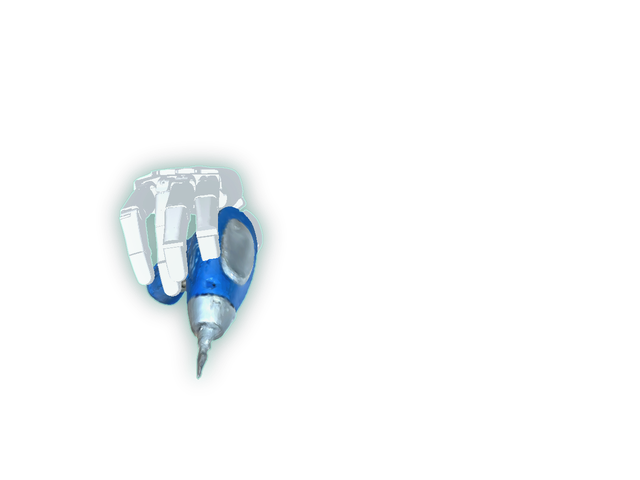
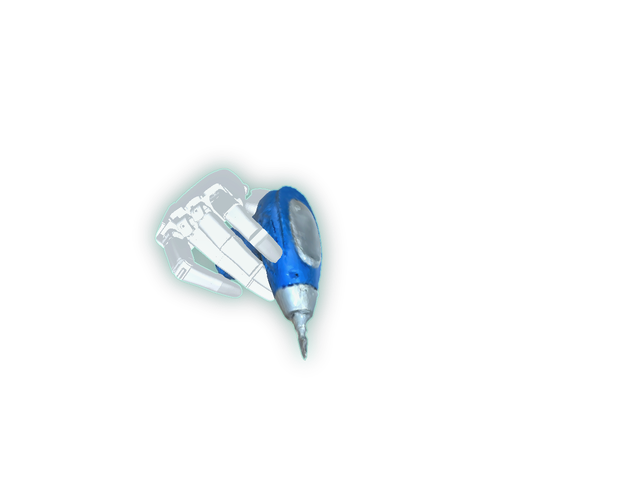
Align demo target timing and Screw driving final-target wrist view

Changed region(s): [[0.1562, 0.3125, 0.5312, 0.7812]]

diff --git a/index.html b/index.html
@@ -142,12 +142,12 @@
             </div>
             <div class="deck-tabs" role="group" aria-label="Demonstration-guided task examples">
               <p class="deck-selector-label">Tasks</p>
-              <button class="is-active" type="button" aria-pressed="true" data-source="./static/ppt-media/media27-2x-30fps-source.mp4?v=source-rebuild-20261025" data-poster="./static/video-posters/media27.jpg" data-title="Barcode scanning" data-kicker="Demonstration-guided task" data-description="The hand maintains a scanner-compatible configuration while the wrist follows the demonstrated scanning motion." data-status="2× speed" data-tone="neutral" data-goal-prefix="./static/stage-goals/barcode-scanning" data-goal-speed="2" data-goal-times="6.6,13.266666,19.866666,26.533334" data-goal-labels="20%|40%|60%|80%" data-goal-frames="459,799,1135,1475" data-goal-layouts="84.000,23.300,70.000,0|84.000,23.300,70.000,0|84.000,23.300,70.000,0|84.000,23.300,70.000,0" data-goal-fractions="0.2,0.4,0.6,0.8" data-goal-inset="true" data-policy-start-frame="0" data-policy-start-time="0">Barcode</button>
+              <button class="is-active" type="button" aria-pressed="true" data-source="./static/ppt-media/media27-2x-30fps-source.mp4?v=source-rebuild-20261025" data-poster="./static/video-posters/media27.jpg" data-title="Barcode scanning" data-kicker="Demonstration-guided task" data-description="The hand maintains a scanner-compatible configuration while the wrist follows the demonstrated scanning motion." data-status="2× speed" data-tone="neutral" data-goal-prefix="./static/stage-goals/barcode-scanning" data-goal-speed="2" data-goal-times="6.6,13.266666,19.866666,26.533334" data-goal-labels="20%|40%|60%|80%" data-goal-frames="459,629,955,1145" data-goal-layouts="84.000,23.300,70.000,0|84.000,23.300,70.000,0|84.000,23.300,70.000,0|84.000,23.300,70.000,0" data-goal-fractions="0.2,0.4,0.6,0.8" data-goal-inset="true" data-policy-start-frame="0" data-policy-start-time="0">Barcode</button>
               <button type="button" aria-pressed="false" data-source="./static/ppt-media/media26-2x-30fps-source.mp4?v=source-rebuild-20261025" data-poster="./static/video-posters/media26.jpg" data-title="Shelf placement" data-kicker="Demonstration-guided task" data-description="The robot carries the grasped object to the shelf and completes the placement constraint." data-status="2× speed" data-tone="neutral" data-goal-prefix="./static/stage-goals/shelf-placement" data-goal-speed="2" data-goal-times="4.8,9.6,14.333334,19.133334" data-goal-labels="20%|40%|60%|80%" data-goal-frames="255,414,571,730" data-goal-layouts="84.000,23.300,70.000,0|84.000,23.300,70.000,0|84.000,23.300,70.000,0|84.000,23.300,70.000,0" data-goal-fractions="0.2,0.4,0.6,0.8" data-goal-inset="true" data-policy-start-frame="0" data-policy-start-time="0">Shelf</button>
-              <button type="button" aria-pressed="false" data-source="./static/ppt-media/media29-2x-30fps-source.mp4?v=source-rebuild-20261025" data-poster="./static/video-posters/media29.jpg" data-title="Block assembly" data-kicker="Demonstration-guided task" data-description="The hand preserves the required relation while the block is aligned with and inserted into the fixture." data-status="2× speed" data-tone="neutral" data-goal-prefix="./static/stage-goals/block-assembly" data-goal-speed="2" data-goal-times="5.333334,10.666666,16.066666,21.4" data-goal-labels="20%|40%|60%|80%" data-goal-frames="298,464,632,798" data-goal-layouts="84.000,23.300,70.000,0|84.000,23.300,70.000,0|84.000,23.300,70.000,0|84.000,23.300,70.000,0" data-goal-fractions="0.2,0.4,0.6,0.8" data-goal-inset="true" data-policy-start-frame="0" data-policy-start-time="0">Assembly</button>
-              <button type="button" aria-pressed="false" data-source="./static/ppt-media/salt-shaking-2x-60fps-source.mp4?v=source-rebuild-20261025" data-poster="./static/video-posters/salt-shaking-2x.jpg" data-title="Salt shaking" data-kicker="Demonstration-guided task" data-description="The robot grasps the container, moves above the target, and completes the shaking trajectory." data-status="2× speed" data-tone="neutral" data-goal-prefix="./static/stage-goals/salt-shaking" data-goal-speed="2" data-goal-times="7.3,14.6,21.866667,29.166667" data-goal-labels="20%|40%|60%|80%" data-goal-frames="460,873,1285,1699" data-goal-layouts="84.000,23.300,70.000,0|84.000,23.300,70.000,0|84.000,23.300,70.000,0|84.000,23.300,70.000,0" data-goal-fractions="0.2,0.4,0.6,0.8" data-goal-inset="true" data-policy-start-frame="0" data-policy-start-time="0">Salt</button>
-              <button type="button" aria-pressed="false" data-source="./static/ppt-media/media28-2x-30fps-source.mp4?v=source-rebuild-20261025" data-poster="./static/video-posters/media28.jpg?v=uniform-2" data-title="Water pouring" data-kicker="Demonstration-guided task" data-description="The hand preserves a stable grasp as the demonstrated wrist motion reorients the container for pouring." data-status="2× speed" data-tone="neutral" data-media-scale="1.24" data-goal-prefix="./static/stage-goals/water-pouring" data-goal-speed="2" data-goal-times="6.066666,12.133334,18.2,24.266666" data-goal-labels="20%|40%|60%|80%" data-goal-frames="348,676,1005,1334" data-goal-layouts="84.000,23.300,70.000,0|84.000,23.300,70.000,0|84.000,23.300,70.000,0|84.000,23.300,70.000,0" data-goal-fractions="0.2,0.4,0.6,0.8" data-goal-inset="true" data-policy-start-frame="0" data-policy-start-time="0">Pouring</button>
-              <button type="button" aria-pressed="false" data-source="./static/ppt-media/media25-2x-30fps-source.mp4?v=source-rebuild-20261025" data-poster="./static/video-posters/media25.jpg?v=full-hand-20261025" data-title="Screw driving" data-kicker="Demonstration-guided task" data-description="A tool-compatible hand configuration is maintained throughout the demonstrated screw-driving motion." data-status="2× speed" data-tone="neutral" data-goal-prefix="./static/stage-goals/screw-driving" data-goal-speed="2" data-goal-times="6.333334,12.6,18.933334,25.2" data-goal-labels="20%|40%|60%|80%" data-goal-frames="436,687,941,1191" data-goal-layouts="84.000,23.300,70.000,0|84.000,23.300,70.000,0|84.000,23.300,70.000,0|84.000,23.300,70.000,0" data-goal-fractions="0.2,0.4,0.6,0.8" data-goal-inset="true" data-policy-start-frame="0" data-policy-start-time="0">Screw driving</button>
+              <button type="button" aria-pressed="false" data-source="./static/ppt-media/media29-2x-30fps-source.mp4?v=source-rebuild-20261025" data-poster="./static/video-posters/media29.jpg" data-title="Block assembly" data-kicker="Demonstration-guided task" data-description="The hand preserves the required relation while the block is aligned with and inserted into the fixture." data-status="2× speed" data-tone="neutral" data-goal-prefix="./static/stage-goals/block-assembly" data-goal-speed="2" data-goal-times="5.333334,10.666666,16.066666,21.4" data-goal-labels="20%|40%|60%|80%" data-goal-frames="298,464,632,738" data-goal-layouts="84.000,23.300,70.000,0|84.000,23.300,70.000,0|84.000,23.300,70.000,0|84.000,23.300,70.000,0" data-goal-fractions="0.2,0.4,0.6,0.8" data-goal-inset="true" data-policy-start-frame="0" data-policy-start-time="0">Assembly</button>
+              <button type="button" aria-pressed="false" data-source="./static/ppt-media/salt-shaking-2x-60fps-source.mp4?v=source-rebuild-20261025" data-poster="./static/video-posters/salt-shaking-2x.jpg" data-title="Salt shaking" data-kicker="Demonstration-guided task" data-description="The robot grasps the container, moves above the target, and completes the shaking trajectory." data-status="2× speed" data-tone="neutral" data-goal-prefix="./static/stage-goals/salt-shaking" data-goal-speed="2" data-goal-times="7.3,14.6,21.866667,29.166667" data-goal-labels="20%|40%|60%|80%" data-goal-frames="460,703,915,1279" data-goal-layouts="84.000,23.300,70.000,0|84.000,23.300,70.000,0|84.000,23.300,70.000,0|84.000,23.300,70.000,0" data-goal-fractions="0.2,0.4,0.6,0.8" data-goal-inset="true" data-policy-start-frame="0" data-policy-start-time="0">Salt</button>
+              <button type="button" aria-pressed="false" data-source="./static/ppt-media/media28-2x-30fps-source.mp4?v=source-rebuild-20261025" data-poster="./static/video-posters/media28.jpg?v=uniform-2" data-title="Water pouring" data-kicker="Demonstration-guided task" data-description="The hand preserves a stable grasp as the demonstrated wrist motion reorients the container for pouring." data-status="2× speed" data-tone="neutral" data-media-scale="1.24" data-goal-prefix="./static/stage-goals/water-pouring" data-goal-speed="2" data-goal-times="6.066666,12.133334,18.2,24.266666" data-goal-labels="20%|40%|60%|80%" data-goal-frames="218,446,705,1064" data-goal-layouts="84.000,23.300,70.000,0|84.000,23.300,70.000,0|84.000,23.300,70.000,0|84.000,23.300,70.000,0" data-goal-fractions="0.2,0.4,0.6,0.8" data-goal-inset="true" data-policy-start-frame="0" data-policy-start-time="0">Pouring</button>
+              <button type="button" aria-pressed="false" data-source="./static/ppt-media/media25-2x-30fps-source.mp4?v=source-rebuild-20261025" data-poster="./static/video-posters/media25.jpg?v=full-hand-20261025" data-title="Screw driving" data-kicker="Demonstration-guided task" data-description="A tool-compatible hand configuration is maintained throughout the demonstrated screw-driving motion." data-status="2× speed" data-tone="neutral" data-goal-prefix="./static/stage-goals/screw-driving" data-goal-speed="2" data-goal-times="6.333334,12.6,18.933334,25.2" data-goal-labels="20%|40%|60%|80%" data-goal-frames="576,767,941,1191" data-goal-layouts="84.000,23.300,70.000,0|84.000,23.300,70.000,0|84.000,23.300,70.000,0|84.000,23.300,70.000,0" data-goal-fractions="0.2,0.4,0.6,0.8" data-goal-inset="true" data-policy-start-frame="0" data-policy-start-time="0">Screw driving</button>
             </div>
           </div>
           <p class="video-group-copy video-group-copy--after">Four representative targets show the configuration goals sent at 1 Hz. Each inset uses the scanned object and Sharpa hand geometry.</p>
